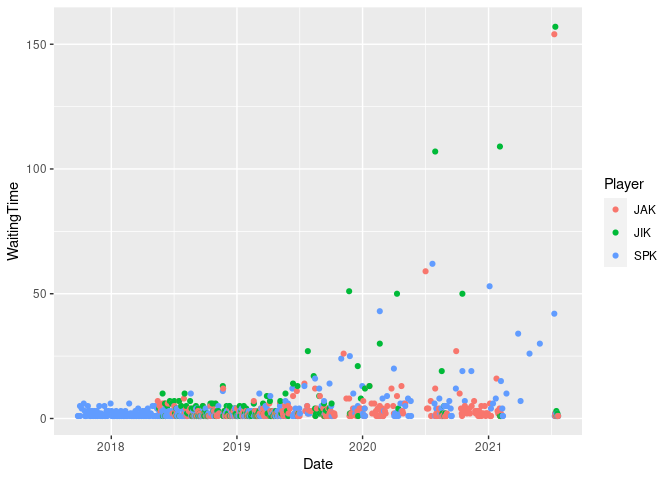
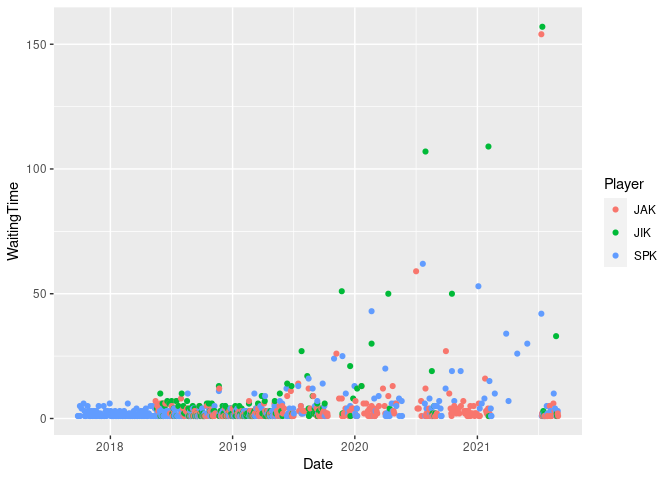
New data added

diff --git a/analysis/nyt_mini_crossword.md b/analysis/nyt_mini_crossword.md
@@ -1,7 +1,7 @@
 ---
 title: "New York Time Mini Crossword"
 author: "Stephen Kaluzny"
-date: "26 July, 2021"
+date: "30 August, 2021"
 output:
   html_document:
     keep_md: true
@@ -167,7 +167,7 @@ d %>%
 
 ## Summary Statistics
 
-Current data set has 1059 observations.
+Current data set has 1097 observations.
 
 
 ```r
@@ -177,15 +177,15 @@ d %>% group_by(Player) %>%
 ```
 
 ```
-## # A tibble: 6 x 6
+## # A tibble: 6 × 6
 ##   Player  Mean Median   Min   Max     N
 ##   <chr>  <dbl>  <dbl> <dbl> <dbl> <int>
-## 1 SKK     51       47    21    89     4
-## 2 AKK     55       55    55    55     1
-## 3 JIK     81.5     62    13   264   199
-## 4 SPK    105.      86    18   455   438
-## 5 JAK    103.      87    27   454   362
-## 6 BBK    117.     102    42   350    55
+## 1 SKK     51     47      21    89     4
+## 2 AKK     55     55      55    55     1
+## 3 JIK     80.8   61.5    13   264   202
+## 4 SPK    105.    86      18   455   449
+## 5 JAK    103.    87      27   454   386
+## 6 BBK    117.   102      42   350    55
 ```
 
 ## Subset the Data
@@ -200,7 +200,7 @@ d <- d %>%
   filter(Player %in% c("SPK", "JAK", "JIK"))
 ```
 
-Now have 999 observations.
+Now have 1037 observations.
 
 ## Plots
 
@@ -303,13 +303,13 @@ sessionInfo()
 ```
 
 ```
-## R version 4.1.0 (2021-05-18)
+## R version 4.1.1 (2021-08-10)
 ## Platform: x86_64-pc-linux-gnu (64-bit)
-## Running under: Ubuntu 20.04.2 LTS
+## Running under: Ubuntu 20.04.3 LTS
 ## 
 ## Matrix products: default
-## BLAS:   /home/R/R-4.1.0/lib/R/lib/libRblas.so
-## LAPACK: /home/R/R-4.1.0/lib/R/lib/libRlapack.so
+## BLAS:   /home/R/R-4.1.1/lib/R/lib/libRblas.so
+## LAPACK: /home/R/R-4.1.1/lib/R/lib/libRlapack.so
 ## 
 ## locale:
 ##  [1] LC_CTYPE=en_US.UTF-8       LC_NUMERIC=C              
@@ -326,15 +326,17 @@ sessionInfo()
 ## [1] ggplot2_3.3.5 dplyr_1.0.7   tidyr_1.1.3   assertr_2.8  
 ## 
 ## loaded via a namespace (and not attached):
-##  [1] Rcpp_1.0.7        highr_0.9         pillar_1.6.1      compiler_4.1.0   
-##  [5] tools_4.1.0       digest_0.6.27     lubridate_1.7.10  evaluate_0.14    
-##  [9] lifecycle_1.0.0   tibble_3.1.2      gtable_0.3.0      pkgconfig_2.0.3  
-## [13] rlang_0.4.11      cli_3.0.1         DBI_1.1.1         yaml_2.2.1       
-## [17] xfun_0.24         withr_2.4.2       stringr_1.4.0     knitr_1.33       
-## [21] generics_0.1.0    vctrs_0.3.8       hms_1.1.0         rprojroot_2.0.2  
-## [25] grid_4.1.0        tidyselect_1.1.1  glue_1.4.2        here_1.0.1       
-## [29] R6_2.5.0          fansi_0.5.0       rmarkdown_2.9     farver_2.1.0     
-## [33] purrr_0.3.4       magrittr_2.0.1    scales_1.1.1      ellipsis_0.3.2   
-## [37] htmltools_0.5.1.1 assertthat_0.2.1  colorspace_2.0-2  labeling_0.4.2   
-## [41] utf8_1.2.1        stringi_1.7.3     munsell_0.5.0     crayon_1.4.1
+##  [1] Rcpp_1.0.7       highr_0.9        pillar_1.6.2     bslib_0.2.5.1   
+##  [5] compiler_4.1.1   jquerylib_0.1.4  tools_4.1.1      digest_0.6.27   
+##  [9] lubridate_1.7.10 jsonlite_1.7.2   evaluate_0.14    lifecycle_1.0.0 
+## [13] tibble_3.1.4     gtable_0.3.0     pkgconfig_2.0.3  rlang_0.4.11    
+## [17] cli_3.0.1        DBI_1.1.1        yaml_2.2.1       xfun_0.25       
+## [21] fastmap_1.1.0    withr_2.4.2      stringr_1.4.0    knitr_1.33      
+## [25] hms_1.1.0        generics_0.1.0   vctrs_0.3.8      sass_0.4.0      
+## [29] rprojroot_2.0.2  grid_4.1.1       tidyselect_1.1.1 here_1.0.1      
+## [33] glue_1.4.2       R6_2.5.1         fansi_0.5.0      rmarkdown_2.10  
+## [37] farver_2.1.0     purrr_0.3.4      magrittr_2.0.1   scales_1.1.1    
+## [41] ellipsis_0.3.2   htmltools_0.5.2  assertthat_0.2.1 colorspace_2.0-2
+## [45] labeling_0.4.2   utf8_1.2.2       stringi_1.7.4    munsell_0.5.0   
+## [49] crayon_1.4.1
 ```
